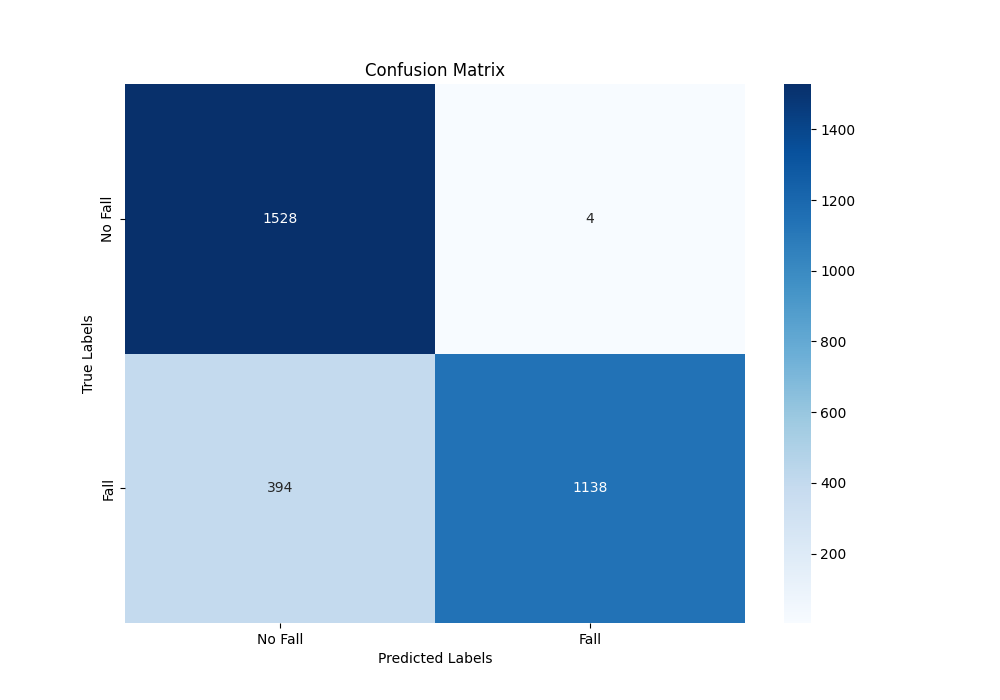
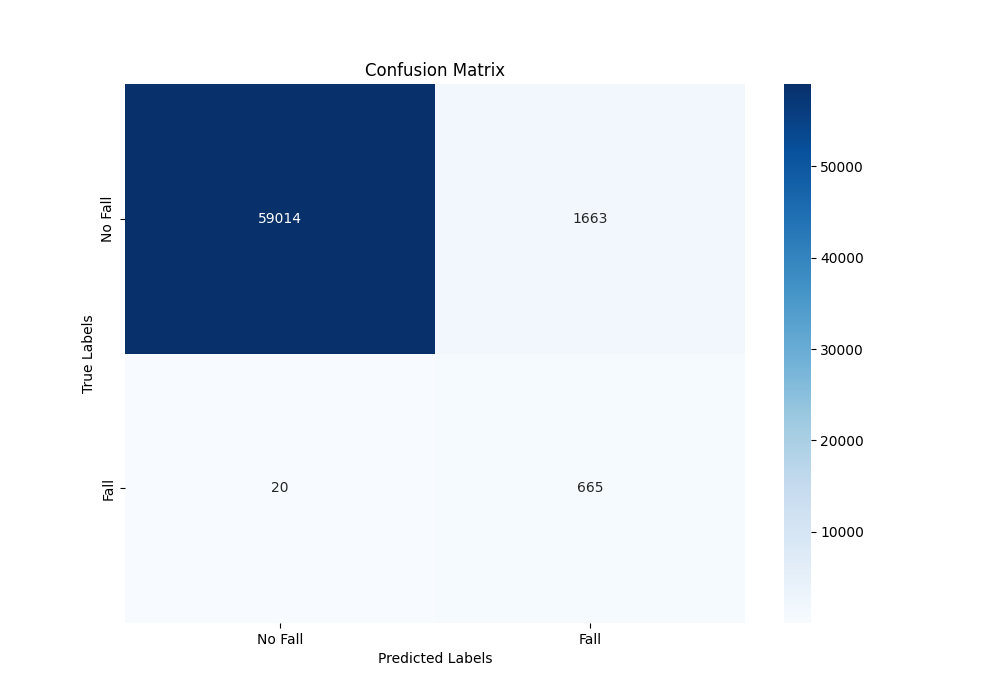
corrected gelu run

diff --git a/findcontours/Exp_1_1_OG_BGS_FCon_Train_GeLU_UPDATED.py b/findcontours/Exp_1_1_OG_BGS_FCon_Train_GeLU_UPDATED.py
@@ -263,8 +263,8 @@ if __name__ == "__main__":
         name_only=os.path.splitext(script_name)
         model_folder=name_only[0]
 
-        features_path = "C:/Users/ac22aci/Desktop/nparray_uv"
-        test_path = "C:/Users/ac22aci/Desktop/nparray_balanced"
+        features_path = "C:/Users/ac22aci/Desktop/nparray_balanced"
+        test_path = "C:/Users/ac22aci/Desktop/nparray_uv"
         batch_size=32
         num_epochs=50
         learning_rate=0.0001 #org 0.0001
